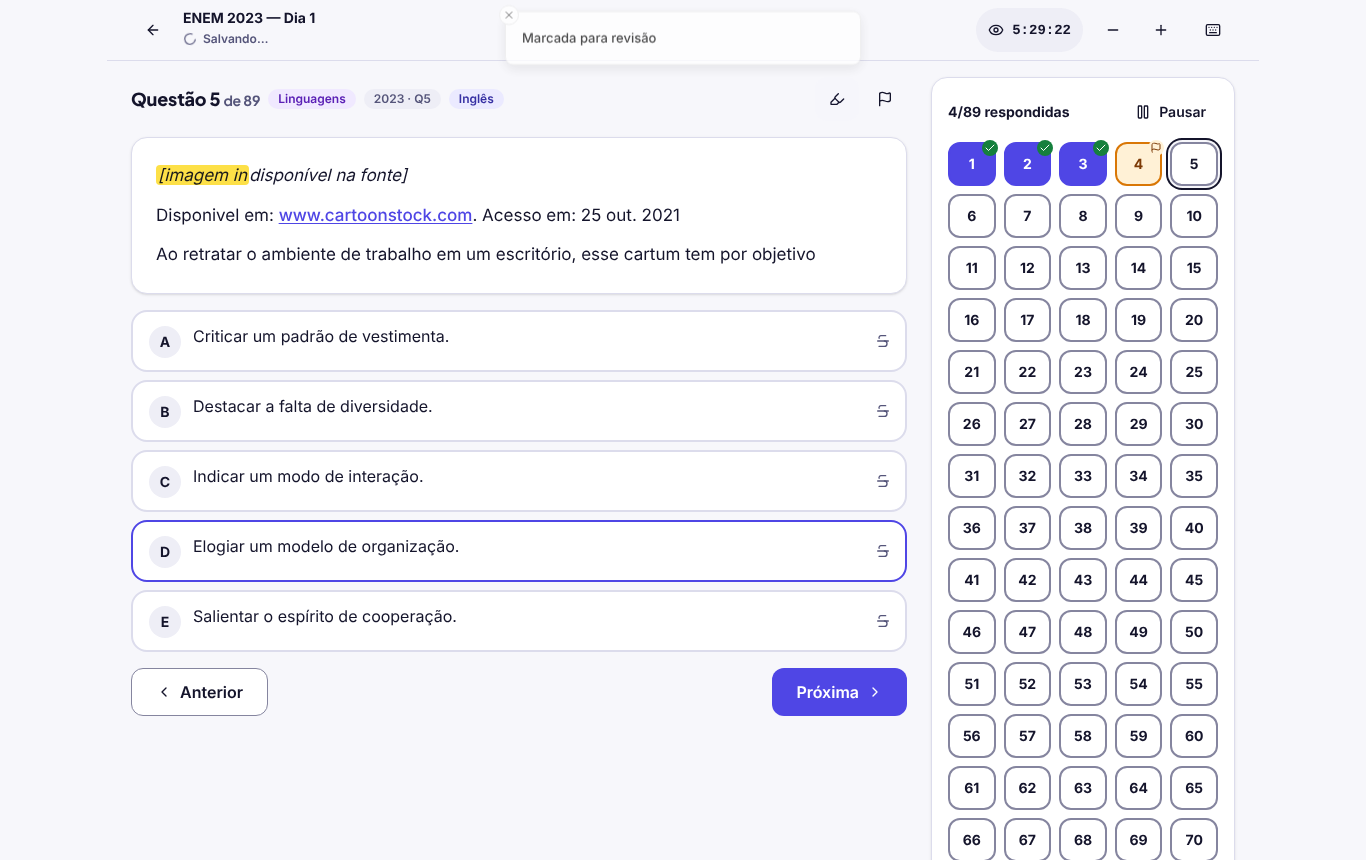
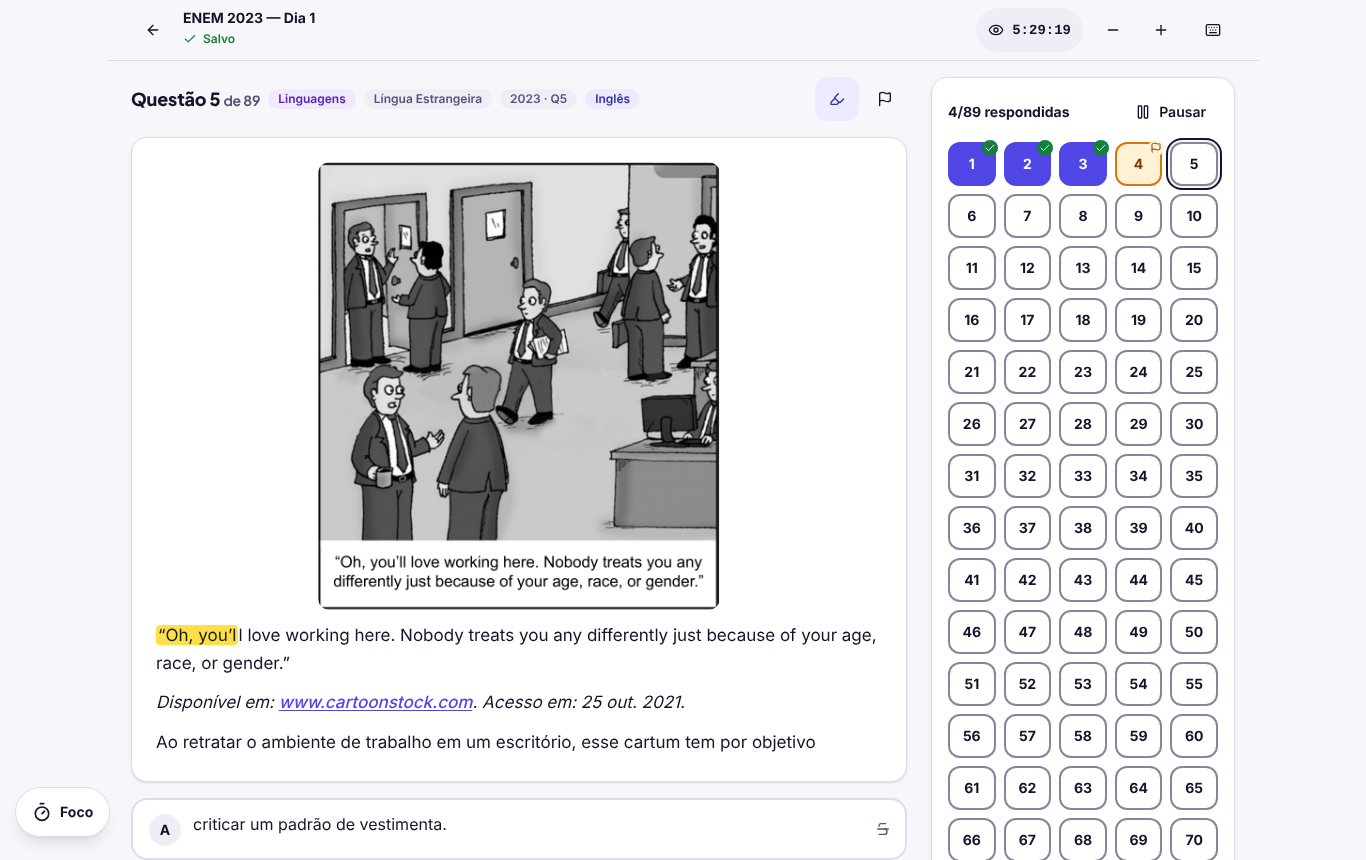
Treino e revisão: tocar marca a alternativa e "Responder" confirma (evita responder por toque errado)
- simulado/personalizado continuam marcando direto (dá para trocar até finalizar)
- teclado: letra marca, Enter responde; ajuda de atalhos atualizada

Claude-Session: https://claude.ai/code/session_01PfeMCgtAxDrZkpFiVMEZAu

diff --git a/src/components/exam/runner.tsx b/src/components/exam/runner.tsx
@@ -72,6 +72,8 @@ export function ExamRunner({ initial, questions }: { initial: RunnerState; quest
   const [save, setSave] = useState<{ state: SaveState; pending: number }>({ state: "saving", pending: 0 });
   const [feedback, setFeedback] = useState<Record<string, Feedback>>({});
   const [showResolution, setShowResolution] = useState(false);
+  // treino/revisão: tocar só marca; "Responder" confirma (evita responder por um toque errado)
+  const [pending, setPending] = useState<Record<string, Label | null>>({});
   const [mapOpen, setMapOpen] = useState(false);
   const [finishOpen, setFinishOpen] = useState(false);
   const [helpOpen, setHelpOpen] = useState(false);
@@ -288,11 +290,22 @@ export function ExamRunner({ initial, questions }: { initial: RunnerState; quest
   // ------------------------------------------------------------------ ações
   const choose = useCallback((label: Label) => {
     if (!q || locked || q.kind !== "objective") return;
-    if (immediate && fb) return; // treino: depois do feedback a resposta fica travada
-    const value = a.choice === label ? null : label;
-    write(q.id, "choice", value);
-    if (immediate && value) void loadFeedback(q.id);
-  }, [a.choice, fb, immediate, loadFeedback, locked, q, write]);
+    if (immediate && (fb || a.choice)) return; // treino: depois de responder a resposta fica travada
+    if (immediate) {
+      setPending((p) => ({ ...p, [q.id]: p[q.id] === label ? null : label }));
+      return;
+    }
+    write(q.id, "choice", a.choice === label ? null : label);
+  }, [a.choice, fb, immediate, locked, q, write]);
+
+  /** Treino/revisão: confirma a alternativa marcada e mostra o gabarito. */
+  const confirm = useCallback(() => {
+    if (!q || locked || !immediate || fb || a.choice) return;
+    const label = pending[q.id];
+    if (!label) return;
+    write(q.id, "choice", label);
+    void loadFeedback(q.id);
+  }, [a.choice, fb, immediate, loadFeedback, locked, pending, q, write]);
 
   const strike = useCallback((label: Label) => {
     if (!q || locked) return;
@@ -387,6 +400,7 @@ export function ExamRunner({ initial, questions }: { initial: RunnerState; quest
       const k = e.key.toUpperCase();
       const labels = q?.alternatives.map((x) => x.label) ?? [];
       if (labels.includes(k)) { e.preventDefault(); return e.shiftKey ? strike(k as Label) : choose(k as Label); }
+      if (e.key === "Enter" && immediate) { e.preventDefault(); return confirm(); }
       if (e.key === "ArrowRight") { e.preventDefault(); go(index + 1); }
       else if (e.key === "ArrowLeft") { e.preventDefault(); go(index - 1); }
       else if (k === "M") toggleFlag();
@@ -395,7 +409,7 @@ export function ExamRunner({ initial, questions }: { initial: RunnerState; quest
     };
     window.addEventListener("keydown", onKey);
     return () => window.removeEventListener("keydown", onKey);
-  }, [choose, finishOpen, go, helpOpen, index, mapOpen, q, strike, toggleFlag]);
+  }, [choose, confirm, finishOpen, go, helpOpen, immediate, index, mapOpen, q, strike, toggleFlag]);
 
   const touch = useRef<{ x: number; y: number } | null>(null);
   const onTouchStart = (e: React.TouchEvent) => { touch.current = { x: e.touches[0].clientX, y: e.touches[0].clientY }; };
@@ -424,6 +438,7 @@ export function ExamRunner({ initial, questions }: { initial: RunnerState; quest
       if (label === a.choice) return "wrong";
       return "idle";
     }
+    if (immediate && !a.choice) return pending[q.id] === label ? "selected" : "idle";
     return a.choice === label ? "selected" : "idle";
   };
   const extraImages = q.extra_images ?? [];
@@ -510,11 +525,18 @@ export function ExamRunner({ initial, questions }: { initial: RunnerState; quest
                       image={alt.image_url}
                       state={altState(alt.label)}
                       struck={a.strikes.includes(alt.label as Label)}
-                      disabled={locked || (immediate && !!fb)}
+                      disabled={locked || (immediate && (!!fb || !!a.choice))}
                       onSelect={() => choose(alt.label as Label)}
                       onStrike={() => strike(alt.label as Label)}
                     />
                   ))}
+                  {immediate && !a.choice && !fb && (
+                    <li className="list-none pt-1">
+                      <Button size="lg" className="w-full sm:w-auto" disabled={locked || !pending[q.id]} onClick={confirm}>
+                        {pending[q.id] ? `Responder ${pending[q.id]}` : "Escolha uma alternativa"}
+                      </Button>
+                    </li>
+                  )}
                 </ol>
               ) : (
                 <div className="grid gap-2">
@@ -602,7 +624,7 @@ export function ExamRunner({ initial, questions }: { initial: RunnerState; quest
               <QuestionMap statuses={statuses} current={index} onGo={go} />
             </Card>
             <Button size="lg" variant="soft" onClick={() => setFinishOpen(true)}><Send aria-hidden /> Finalizar {immediate ? "treino" : "prova"}</Button>
-            <p className="text-xs text-muted-foreground">Atalhos: A–{q.alternatives.at(-1)?.label ?? "E"} marcar · Shift+letra riscar · ←/→ navegar · M revisão · H marca-texto</p>
+            <p className="text-xs text-muted-foreground">Atalhos: A–{q.alternatives.at(-1)?.label ?? "E"} marcar{immediate ? " · Enter responder" : ""} · Shift+letra riscar · ←/→ navegar · M revisão · H marca-texto</p>
           </div>
         </aside>
       </div>
@@ -653,6 +675,7 @@ export function ExamRunner({ initial, questions }: { initial: RunnerState; quest
           <DialogTitle>Atalhos e gestos</DialogTitle>
           <ul className="grid gap-2 text-sm">
             <li><kbd className="rounded bg-muted px-1.5 font-mono">A</kbd>–<kbd className="rounded bg-muted px-1.5 font-mono">E</kbd> marcar alternativa (de novo desmarca)</li>
+            {immediate && <li><kbd className="rounded bg-muted px-1.5 font-mono">Enter</kbd> responder a alternativa marcada (treino)</li>}
             <li><kbd className="rounded bg-muted px-1.5 font-mono">Shift</kbd>+letra riscar alternativa · celular: toque longo · mouse: botão direito</li>
             <li><kbd className="rounded bg-muted px-1.5 font-mono">←</kbd> <kbd className="rounded bg-muted px-1.5 font-mono">→</kbd> navegar · celular: deslize para o lado</li>
             <li><kbd className="rounded bg-muted px-1.5 font-mono">M</kbd> marcar para revisão · <kbd className="rounded bg-muted px-1.5 font-mono">H</kbd> marca-texto</li>
